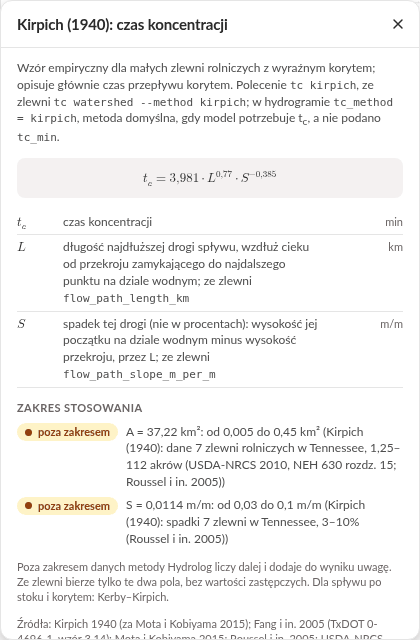
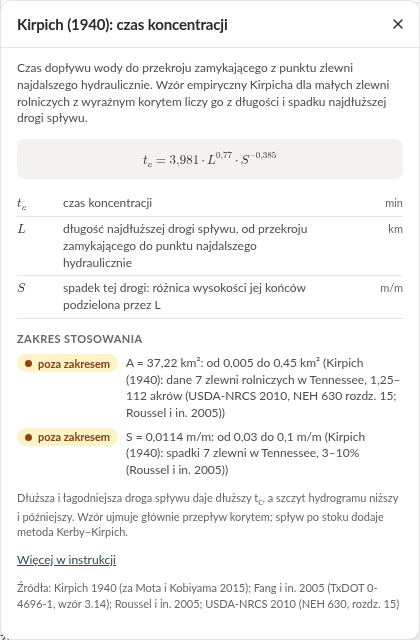
fix(gui): say why a command's form is missing, retake the Kirpich explanation
useCatalog recorded nothing when a command's catalog entry failed to load, so the form stayed on „Wczytywanie opisu polecenia…” until a reload; the failure and its reason are now shown, and a reload asks again. The guide's objasnienie.png showed Kirpich's explanation before Nogat DEV-15.14; it is retaken (420 x 640, 256 colours) with its note, its link „Więcej w instrukcji” and its sources.

diff --git a/src/hydrolog/gui/web/instrukcja/index.html b/src/hydrolog/gui/web/instrukcja/index.html
@@ -184,7 +184,7 @@
 
   <h3>Objaśnienia <span class="i-mark" aria-hidden="true">i</span></h3>
   <figure class="inline-figure">
-    <a href="img/objasnienie.png"><img src="img/objasnienie.png" width="420" height="640" loading="lazy" alt="Okienko objaśnienia „Kirpich (1940): czas koncentracji”: opis, wzór, zmienne z jednostkami (długość i spadek najdłuższej drogi spływu) i zakres stosowania podany przez Hydrolog ze źródłem, w którym powierzchnia zlewni i spadek najdłuższej drogi spływu przykładu są oznaczone „poza zakresem”."></a>
+    <a href="img/objasnienie.png"><img src="img/objasnienie.png" width="420" height="640" loading="lazy" alt="Okienko objaśnienia „Kirpich (1940): czas koncentracji”: opis, wzór, zmienne z jednostkami (długość i spadek najdłuższej drogi spływu), zakres stosowania podany przez Hydrolog ze źródłem, w którym powierzchnia zlewni i spadek najdłuższej drogi spływu przykładu są oznaczone „poza zakresem”, uwaga, odnośnik „Więcej w instrukcji” i źródła."></a>
     <figcaption>Objaśnienie metody Kirpicha; zakres stosowania porównany z danymi przykładu.</figcaption>
   </figure>
   <p>Przycisk <span class="i-mark" aria-hidden="true">i</span> przy polu, metodzie albo uwadze otwiera objaśnienie: co to jest, wzór ze zmiennymi i jednostkami, zakres stosowania, jak odczytać wartość i źródła. Zakres stosowania, razem z publikacją, z której pochodzi, podaje Hydrolog; jest porównany z Twoimi danymi i oznaczony „w zakresie” albo „poza zakresem”. „Więcej w instrukcji” otwiera dłuższy opis metody w rozdziale <a href="#metody">Metody obliczeń</a>. Objaśnienie zamyka <span class="key-mark" aria-hidden="true">×</span>, klawisz <kbd>Esc</kbd> albo kliknięcie obok.</p>

diff --git a/src/hydrolog/gui/web/src/sections/polecenia/state.js b/src/hydrolog/gui/web/src/sections/polecenia/state.js
@@ -97,13 +97,16 @@ export function filterCommands(commands, docs, group, query) {
 
 /**
  * The catalog: the command list, then every command's document (its Polish summary and
- * options, for the list and the search), fetched once.
+ * options, for the list and the search), fetched once. A document that fails to load is
+ * recorded with its message, so the chosen command's form says so instead of waiting; a
+ * reload asks again (a failed fetch is not cached).
  *
- * @returns {{commands: object[]|null, docs: Map<string, object>, error: string|null}} the
- *   list (null until it arrives), the documents by name and a loading error
+ * @returns {{commands: object[]|null, docs: Map<string, object>, failed: Map<string,
+ *   string>, error: string|null}} the list (null until it arrives), the documents by name,
+ *   the messages of the documents that failed by name and a loading error of the list
  */
 export function useCatalog() {
-  const [catalog, setCatalog] = useState({ commands: null, docs: new Map(), error: null });
+  const [catalog, setCatalog] = useState({ commands: null, docs: new Map(), failed: new Map(), error: null });
   useEffect(() => {
     let alive = true;
     api
@@ -118,7 +121,10 @@ export function useCatalog() {
             .then((doc) => {
               if (alive) setCatalog((old) => ({ ...old, docs: new Map(old.docs).set(item.name, doc) }));
             })
-            .catch(() => {});
+            .catch((error) => {
+              const message = error && error.doc ? describeError(error.doc).text : String((error && error.message) || error);
+              if (alive) setCatalog((old) => ({ ...old, failed: new Map(old.failed).set(item.name, message) }));
+            });
         }
       })
       .catch((error) => {

diff --git a/src/hydrolog/gui/web/src/sections/polecenia/index.js b/src/hydrolog/gui/web/src/sections/polecenia/index.js
@@ -227,11 +227,13 @@ export default function Polecenia({ active, path = [] }) {
             formId=${FORM_ID}
             onSubmit=${submit}
           />`
-        : command && catalog.commands
-          ? html`<p class="muted" role="status">${texts.formLoading}</p>`
-          : catalog.commands
-            ? html`<${EmptyHint} text=${texts.pick} anchor="przyklad-polecenia" name="polecenia" />`
-            : null}
+        : command && catalog.failed.has(command)
+          ? html`<p class="err" role="alert">${t(texts.formFailed, { message: catalog.failed.get(command) })}</p>`
+          : command && catalog.commands
+            ? html`<p class="muted" role="status">${texts.formLoading}</p>`
+            : catalog.commands
+              ? html`<${EmptyHint} text=${texts.pick} anchor="przyklad-polecenia" name="polecenia" />`
+              : null}
     `,
     foot: html`
       <button class="btn primary" type="submit" form=${FORM_ID} disabled=${!model || visibleCount > 0 || busy === command}>

diff --git a/src/hydrolog/gui/web/src/labels/polecenia.js b/src/hydrolog/gui/web/src/labels/polecenia.js
@@ -21,6 +21,7 @@ export const polecenia = {
   loadFailed: "Nie udało się wczytać katalogu: {message}",
   pick: "Wybierz polecenie z listy: jego formularz jest pusty, wpisz dane i naciśnij „Uruchom”.",
   formLoading: "Wczytywanie opisu polecenia…",
+  formFailed: "Nie udało się wczytać opisu polecenia: {message}",
   hint: "Formularz, tabela i JSON z katalogu (commands schema), bez kodu dla polecenia",
   view: "Widok",
   tabs: { table: "Tabela", chart: "Wykres", json: "JSON" },

diff --git a/tests/e2e/test_polecenia.py b/tests/e2e/test_polecenia.py
@@ -277,6 +277,38 @@ def test_a_command_chosen_in_the_list_is_in_the_hash_and_a_hash_opens_it(
     expect(page.locator(f'{POL} .cmd-item[data-command="gui serve"]')).to_have_count(0)
 
 
+def test_a_command_whose_entry_fails_to_load_says_so_until_a_reload(tab: Tab) -> None:
+    entry_url = "**/api/commands/route/lag"
+    failure = {
+        "schema": "hydrolog-error/1",
+        "code": "internal_error",
+        "title": "Internal error",
+        "message": "boom",
+        "exit_code": 1,
+    }
+    tab.page.route(
+        entry_url,
+        lambda route: route.fulfill(
+            status=500, content_type="application/json", body=json.dumps(failure)
+        ),
+    )
+    tab.open("#polecenia/route/lag")
+    page = tab.page
+    # The form's place says why it is empty, not „Wczytywanie opisu polecenia…”
+    expect(page.locator(f'{POL} .view-panel.left [role="alert"]')).to_have_text(
+        "Nie udało się wczytać opisu polecenia: boom (EN)"
+    )
+    expect(page.locator(f"{POL} .cmd-form")).to_have_count(0)
+    expect(page.get_by_text("Wczytywanie opisu polecenia…")).to_have_count(0)
+    expect(page.get_by_role("button", name="Uruchom")).to_be_disabled()
+
+    # A reload asks the server again
+    page.unroute(entry_url)
+    page.reload()
+    expect(page.locator(HEAD)).to_have_text("route lag")
+    expect(page.locator(f'{POL} .view-panel.left [role="alert"]')).to_have_count(0)
+
+
 # --- uh nash -------------------------------------------------------------------
 
 
